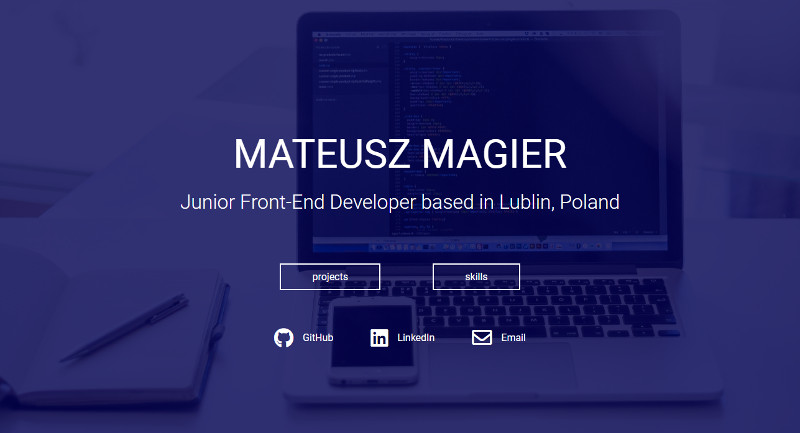
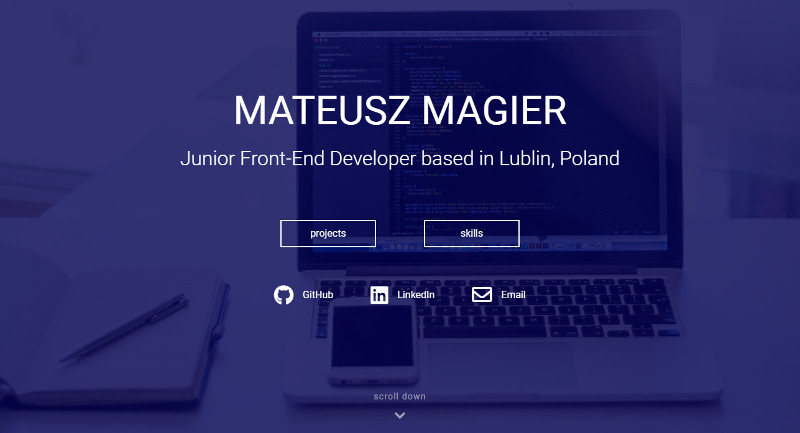
Add animated 'scroll down' link in home section.

diff --git a/css/style.css b/css/style.css
@@ -1,3 +1,12 @@
+@keyframes scrollDownAnimation {
+  0% {
+    transform: translateY(0);
+    opacity: 0; }
+  50% {
+    opacity: .7; }
+  100% {
+    transform: translateY(15px);
+    opacity: 0; } }
 * {
   margin: 0;
   padding: 0; }
@@ -15,6 +24,10 @@ body {
   height: 60px;
   background-color: #000051;
   z-index: 2;
+  border-radius: 100%;
+  -webkit-box-shadow: 0px 0px 8px 2px rgba(0, 0, 0, 0.5);
+  -moz-box-shadow: 0px 0px 8px 2px rgba(0, 0, 0, 0.5);
+  box-shadow: 0px 0px 8px 2px rgba(0, 0, 0, 0.5);
   opacity: .7;
   transition: opacity .2s ease-in; }
   @media all and (max-width: 600px) {
@@ -223,6 +236,27 @@ body {
         .home-section .social__link-name {
           margin-left: 2px;
           font-size: 0.9em; } }
+  .home-section .scroll-down-wrapper {
+    position: absolute;
+    left: 0;
+    right: 0;
+    bottom: 15px;
+    text-align: center;
+    z-index: 1; }
+  .home-section .scroll-down {
+    text-decoration: none;
+    color: white; }
+    .home-section .scroll-down:hover span {
+      opacity: 1; }
+    .home-section .scroll-down span {
+      font-size: 0.9em;
+      letter-spacing: 1px;
+      opacity: .5; }
+    .home-section .scroll-down .fa-chevron-down {
+      font-size: 1.2em;
+      animation-name: scrollDownAnimation;
+      animation-iteration-count: infinite;
+      animation-duration: 1.5s; }
 
 .projects-section {
   width: 100%;
@@ -503,7 +537,7 @@ body {
     color: white;
     text-decoration: none;
     margin: 0 10px;
-    transition: none; }
+    transition: all .3s ease-in; }
     @media all and (max-width: 550px) {
       .footer-section__link {
         margin: 0 15px; } }
@@ -512,7 +546,7 @@ body {
         font-size: 1.5em; } }
     .footer-section__link:hover {
       transform: rotateX(360deg);
-      transition: all .5s ease-in; }
+      transition: all .3s ease-in; }
     .footer-section__link:visited {
       color: white; }
 

diff --git a/js/script.js b/js/script.js
@@ -5,13 +5,21 @@ $(function () {
     let websitesProjects = $('.project[data-category="websites"]');
     let gamesProjects = $('.project[data-category="games"]');
     let webAppsProjects = $('.project[data-category="web-apps"]');
-    let scroll = new SmoothScroll('a[href*="#"]');
+    let scroll = new SmoothScroll('a[href*="#"]', {
+        speed: 800
+    });
     const fadeInDuration = 600;
 
     const showArrowOffset = $('#home-section').height();
 
     $(document).scroll(function() {
         const pos = $(this).scrollTop();
+
+        if(pos > 0) {
+            $('.scroll-down-wrapper').fadeOut(300);
+        } else {
+            $('.scroll-down-wrapper').fadeIn(300);
+        }
         
         if(pos > showArrowOffset) {
             $('.up-button').fadeIn(300);

diff --git a/scss/_home-section.scss b/scss/_home-section.scss
@@ -226,5 +226,37 @@
             }
         }
     }
+
+    .scroll-down-wrapper {
+        position: absolute;
+        left: 0;
+        right: 0;        
+        bottom: 15px;
+        text-align: center;
+        z-index: 1;
+    }
+
+    .scroll-down {
+        text-decoration: none;
+        color: white;
+
+        &:hover span {
+            opacity: 1;
+        }
+
+        span {
+            font-size: 0.9em;
+            letter-spacing: 1px;
+            opacity: .5;
+        }
+
+        .fa-chevron-down {
+            font-size: 1.2em;
+            animation-name: scrollDownAnimation;
+            animation-iteration-count: infinite;
+            animation-duration: 1.5s;
+        }
+    }
    
 }
+

diff --git a/index.html b/index.html
@@ -21,6 +21,12 @@
         <a data-scroll href="#home-section" class="fas fa-chevron-up"></a>
     </div>
     <section class="home-section" id="home-section">
+        <div class="scroll-down-wrapper">
+            <a data-scroll href="#projects-section" class="scroll-down">
+                <span>scroll down</span><br>
+                <i class="fas fa-chevron-down"></i>
+            </a>
+        </div>
         <div class="home-section__overlay"></div>
         <ul class="home-section__content">
             <h1 class="home-section__author">MATEUSZ MAGIER</h1>

diff --git a/scss/_footer-section.scss b/scss/_footer-section.scss
@@ -40,7 +40,7 @@
         color: white;
         text-decoration: none;
         margin: 0 10px;
-        transition: none;
+        transition: all .3s ease-in;
 
         @media all and (max-width: 550px) {
             margin: 0 15px;
@@ -52,8 +52,9 @@
 
         &:hover {
             transform: rotateX(360deg);
-            transition: all .5s ease-in;
+            transition: all .3s ease-in;
         }
+
         &:visited {
             color: white;
         }

diff --git a/scss/style.scss b/scss/style.scss
@@ -19,6 +19,10 @@ body {
     height: 60px;
     background-color: $color-stratos;
     z-index: 2;
+    border-radius: 100%;
+    -webkit-box-shadow: 0px 0px 8px 2px rgba(0,0,0,0.5);
+    -moz-box-shadow: 0px 0px 8px 2px rgba(0,0,0,0.5);
+    box-shadow: 0px 0px 8px 2px rgba(0,0,0,0.5);
     opacity: .7;
     transition: opacity .2s ease-in;
 

diff --git a/scss/_config.scss b/scss/_config.scss
@@ -2,3 +2,17 @@
 $color-stratos: #000051;
 $color-black-russian: #00001f;
 $color-cod-gray: #111110;
+
+@keyframes scrollDownAnimation {
+    0% {
+        transform: translateY(0);
+        opacity: 0;
+    }
+    50% {
+        opacity: .7;
+    }
+    100% {
+        transform: translateY(15px);
+        opacity: 0;
+    }
+}

diff --git a/scss/_projects-section.scss b/scss/_projects-section.scss
@@ -214,7 +214,3 @@
         }
     }
 }
-
-// .visible {
-//     display: block;
-// }
